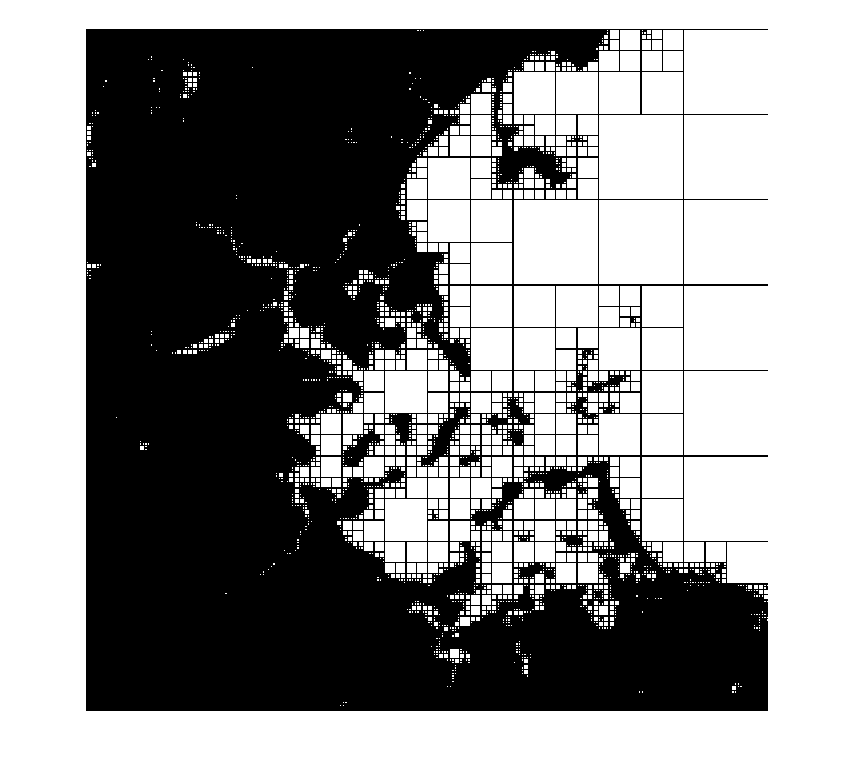
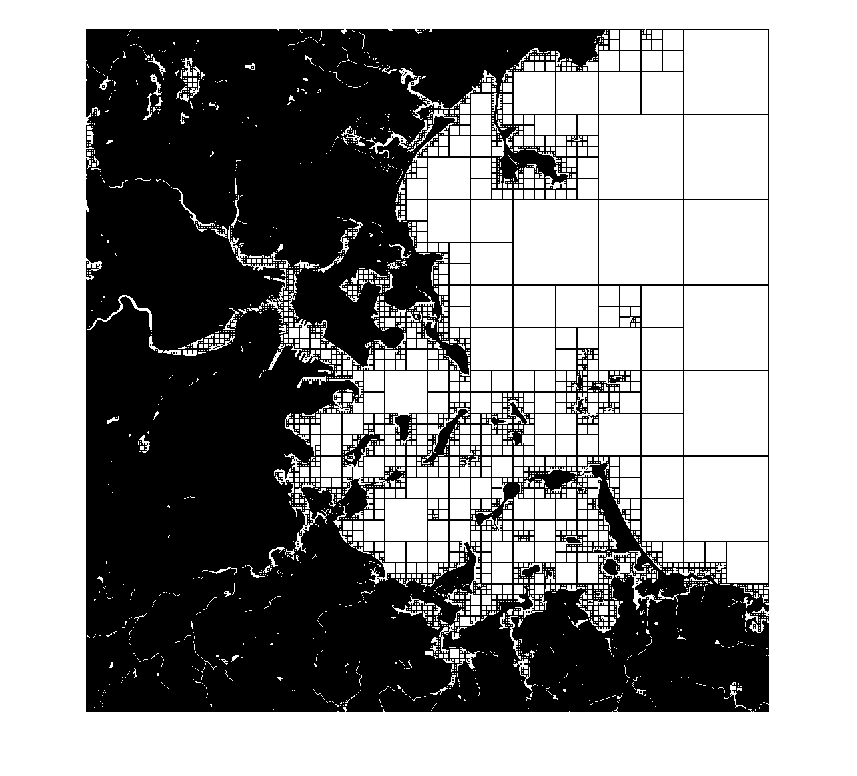
Updated

diff --git a/fig2QTgrid.m b/fig2QTgrid.m
@@ -19,10 +19,10 @@ for i = 1:L
                 temp(2:diag-1,2:diag-1) = 1;
                 QTgraph(i:i+diag-1,j:j+diag-1) = temp;
               elseif diag == 2
-                temp = zeros(diag,diag);
-                QTgraph(i:i+diag-1,j:j+diag-1) = temp;
+                temp = ones(diag,diag);
+                QTgraph(i:i+1,j:j+1) = temp;
               else
-                QTgraph(i,j) = 0;
+                QTgraph(i,j) = 1;
               end
           end
       end

diff --git a/test.m b/test.m
@@ -7,14 +7,15 @@ draw_grid(leafnode)
 
 %%
 I = imread('Boston_shore.png');
-BW = QT_rgb2BW(I);
+BW = QT_rgb2BW(I,1024);
 
 %%
 I = imread('Boston_shore.png');
 
-L = 1024;
+L = 256;
 
-I = I(1:L,1:L,:);
+I = I(300:300+L-1,500:500+L-1,:);
+%I = I(1:1024,1:1024,:);
 BW = QT_rgb2BW(I,L);
 
 [QTgraph,QTgrid] = fig2QTgrid(BW,L);
